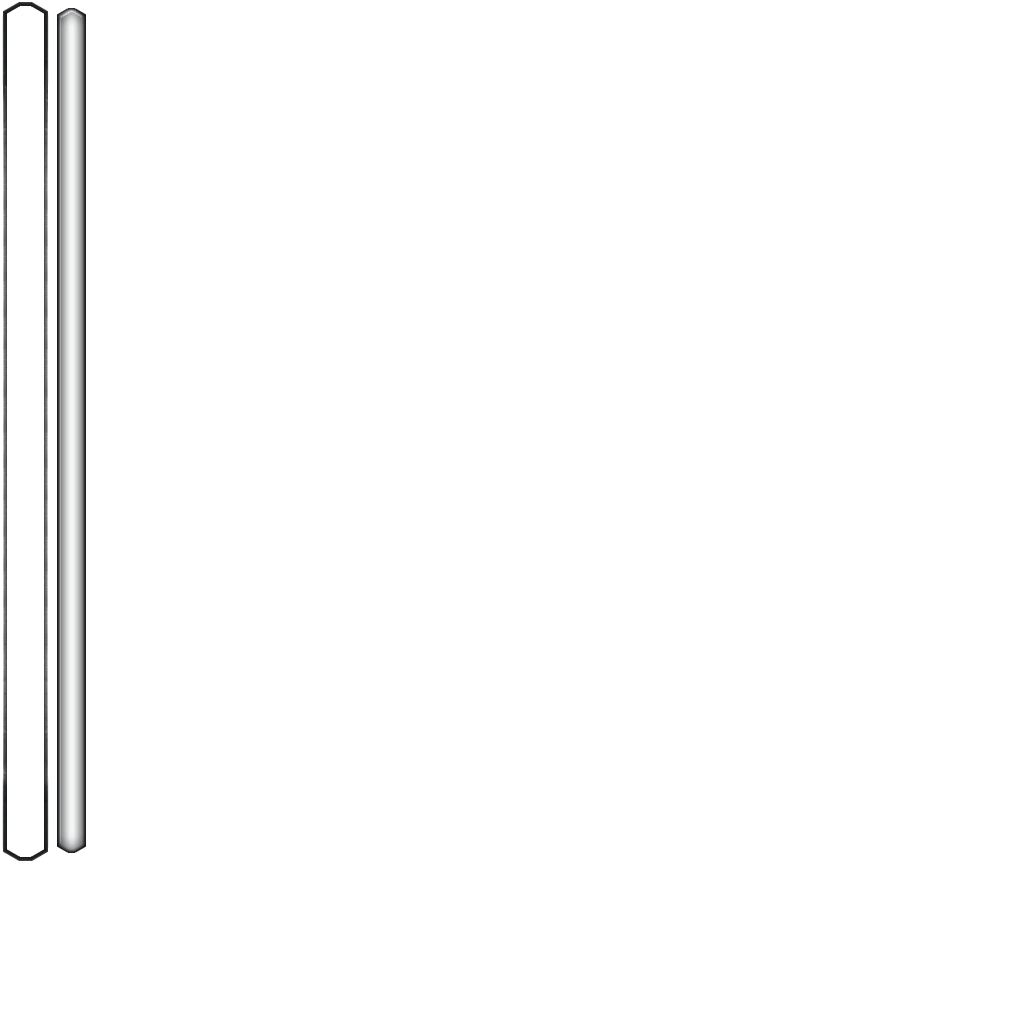
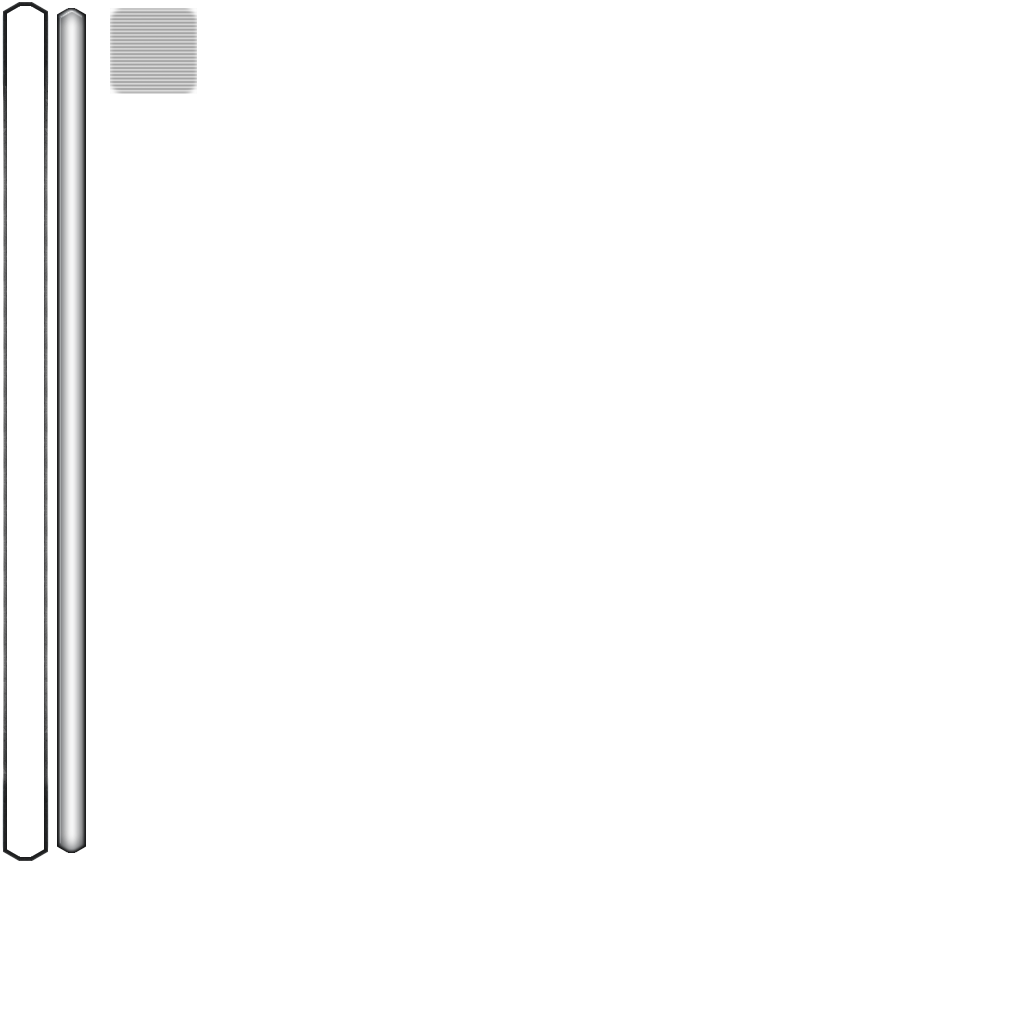
WIP "minimap" for orders that require selecting which item to use.

Changed region(s): [[0.0938, 0.0, 0.2188, 0.0938]]

diff --git a/Barotrauma/BarotraumaClient/Source/Map/Submarine.cs b/Barotrauma/BarotraumaClient/Source/Map/Submarine.cs
@@ -190,9 +190,6 @@ namespace Barotrauma
 
             if (PreviewImage == null)
             {
-                //var txtBlock = new GUITextBlock(new Rectangle(-20, 60, 256, 128), TextManager.Get("SubPreviewImageNotFound"), Color.Black * 0.5f, null, Alignment.Center, "", frame, true);
-                //var txtBlock = new GUITextBlock(new RectTransform())
-                //txtBlock.OutlineColor = txtBlock.TextColor;
                 new GUITextBlock(new RectTransform(new Vector2(0.45f, 1), upperPart.RectTransform), TextManager.Get("SubPreviewImageNotFound"));
             }
             else
@@ -227,6 +224,39 @@ namespace Barotrauma
             {
                 CanBeFocused = false
             };
+        }
+
+        public void CreateMiniMap(GUIComponent parent)
+        {
+            Rectangle worldBorders = GetDockedBorders();
+            worldBorders.Location += WorldPosition.ToPoint();
+
+            //create a container that has the same "aspect ratio" as the sub
+            float aspectRatio = worldBorders.Width / (float)worldBorders.Height;
+            float parentAspectRatio = parent.Rect.Width / (float)parent.Rect.Height;
+
+            float scale = 0.9f;
+
+            GUIFrame hullContainer = new GUIFrame(new RectTransform(
+                (parentAspectRatio > aspectRatio ? new Vector2(aspectRatio / parentAspectRatio, 1.0f) : new Vector2(1.0f, parentAspectRatio / aspectRatio)) * scale, 
+                parent.RectTransform, Anchor.Center), 
+                style: null);
+
+            foreach (Hull hull in Hull.hullList)
+            {
+                if (hull.Submarine != this && !DockedTo.Contains(hull.Submarine)) continue;
+
+                Vector2 relativeHullPos = new Vector2(
+                    (hull.WorldRect.X - worldBorders.X) / (float)Borders.Width, 
+                    (worldBorders.Y - hull.WorldRect.Y) / (float)Borders.Height);
+
+                Vector2 relativeHullSize = new Vector2(hull.Rect.Width / (float)worldBorders.Width, hull.Rect.Height / (float)worldBorders.Height);
+
+                var hullFrame = new GUIFrame(new RectTransform(relativeHullSize, hullContainer.RectTransform) { RelativeOffset = relativeHullPos }, style: "MiniMapRoom")
+                {
+                    UserData = hull
+                };
+            }
         }
 
         public void CheckForErrors()

diff --git a/Barotrauma/BarotraumaClient/Source/GameSession/CrewManager.cs b/Barotrauma/BarotraumaClient/Source/GameSession/CrewManager.cs
@@ -743,13 +743,38 @@ namespace Barotrauma
             //more than one target item -> create a minimap-like selection with a pic of the sub
             if (matchingItems.Count > 1)
             {
-                //TODO: implement
+                Rectangle subBorders = Submarine.MainSub.GetDockedBorders();
+
+                Point frameSize;
+                if (subBorders.Width > subBorders.Height)
+                {
+                    //make sure the right side doesn't go over the right side of the screen
+                    frameSize.X = Math.Min(GameMain.GraphicsWidth / 2, GameMain.GraphicsWidth - orderButton.Rect.Center.X - 50);
+                    //height depends on the dimensions of the sub
+                    frameSize.Y = (int)(frameSize.X * (subBorders.Height / (float)subBorders.Width));
+                }
+                else
+                {
+                    //make sure the bottom side doesn't go over the bottom of the screen
+                    frameSize.Y = Math.Min((int)(GameMain.GraphicsHeight * 0.6f), GameMain.GraphicsHeight - orderButton.Rect.Center.Y - 50);
+                    //width depends on the dimensions of the sub
+                    frameSize.X = (int)(frameSize.Y * (subBorders.Width / (float)subBorders.Height));
+                }
+
+                orderTargetFrame = new GUIFrame(new RectTransform(frameSize, GUI.Canvas)
+                    { AbsoluteOffset = new Point(orderButton.Rect.Center.X, orderButton.Rect.Bottom) },
+                    style: "InnerFrame")
+                {
+                    UserData = character
+                };
+
+                Submarine.MainSub.CreateMiniMap(orderTargetFrame);
             }
             //only one target (or an order with no particular targets), just show options
             else
             {
                 orderTargetFrame = new GUILayoutGroup(new RectTransform(new Vector2(0.2f + order.Options.Length * 0.1f, 0.18f), GUI.Canvas)
-                { AbsoluteOffset = new Point(orderButton.Rect.Center.X, orderButton.Rect.Bottom) },
+                    { AbsoluteOffset = new Point(orderButton.Rect.Center.X, orderButton.Rect.Bottom) },
                     isHorizontal: true, childAnchor: Anchor.BottomLeft)
                 {
                     UserData = character,
